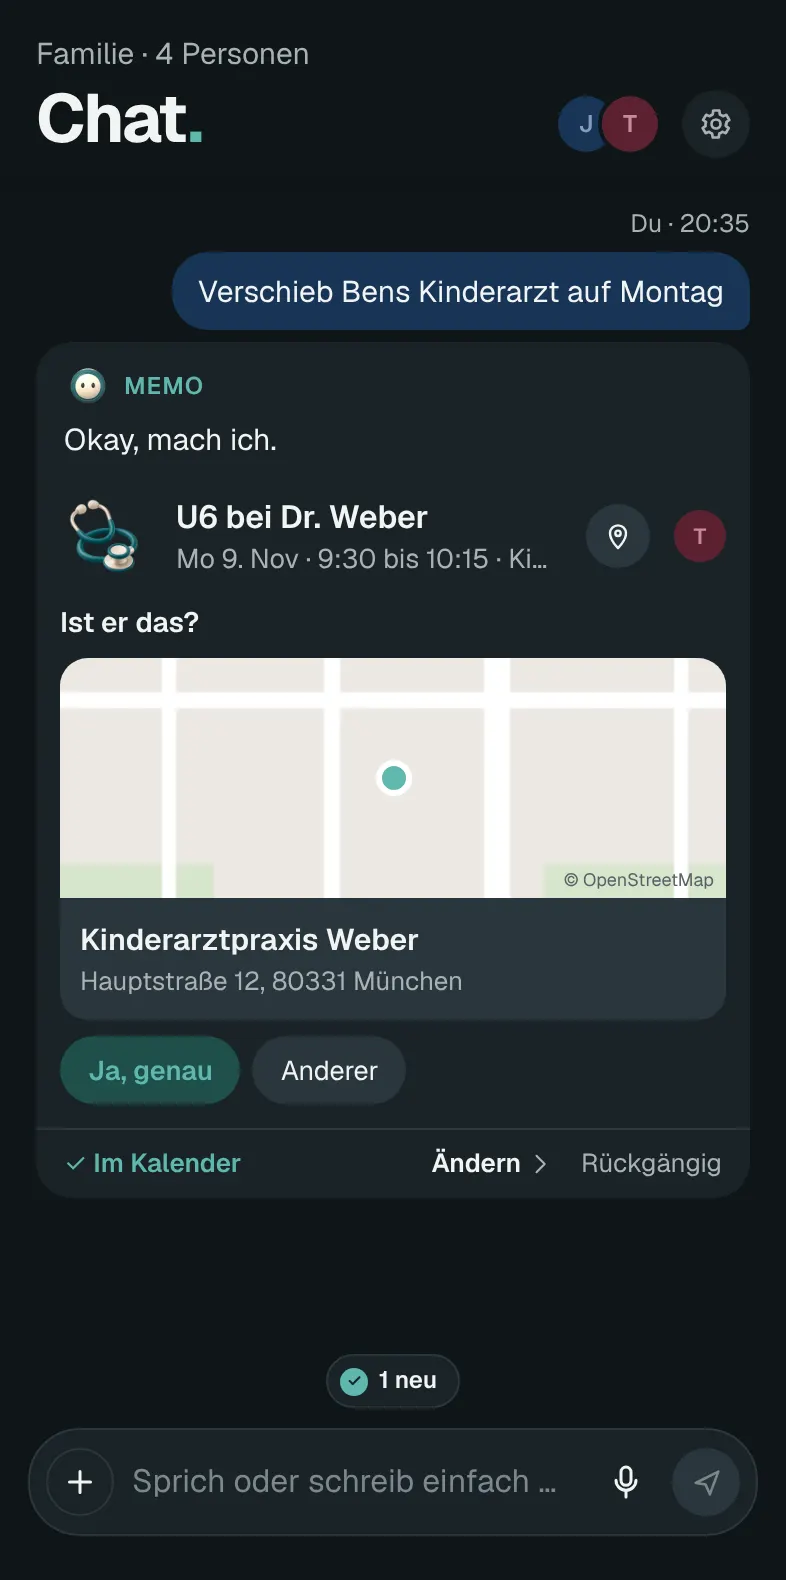
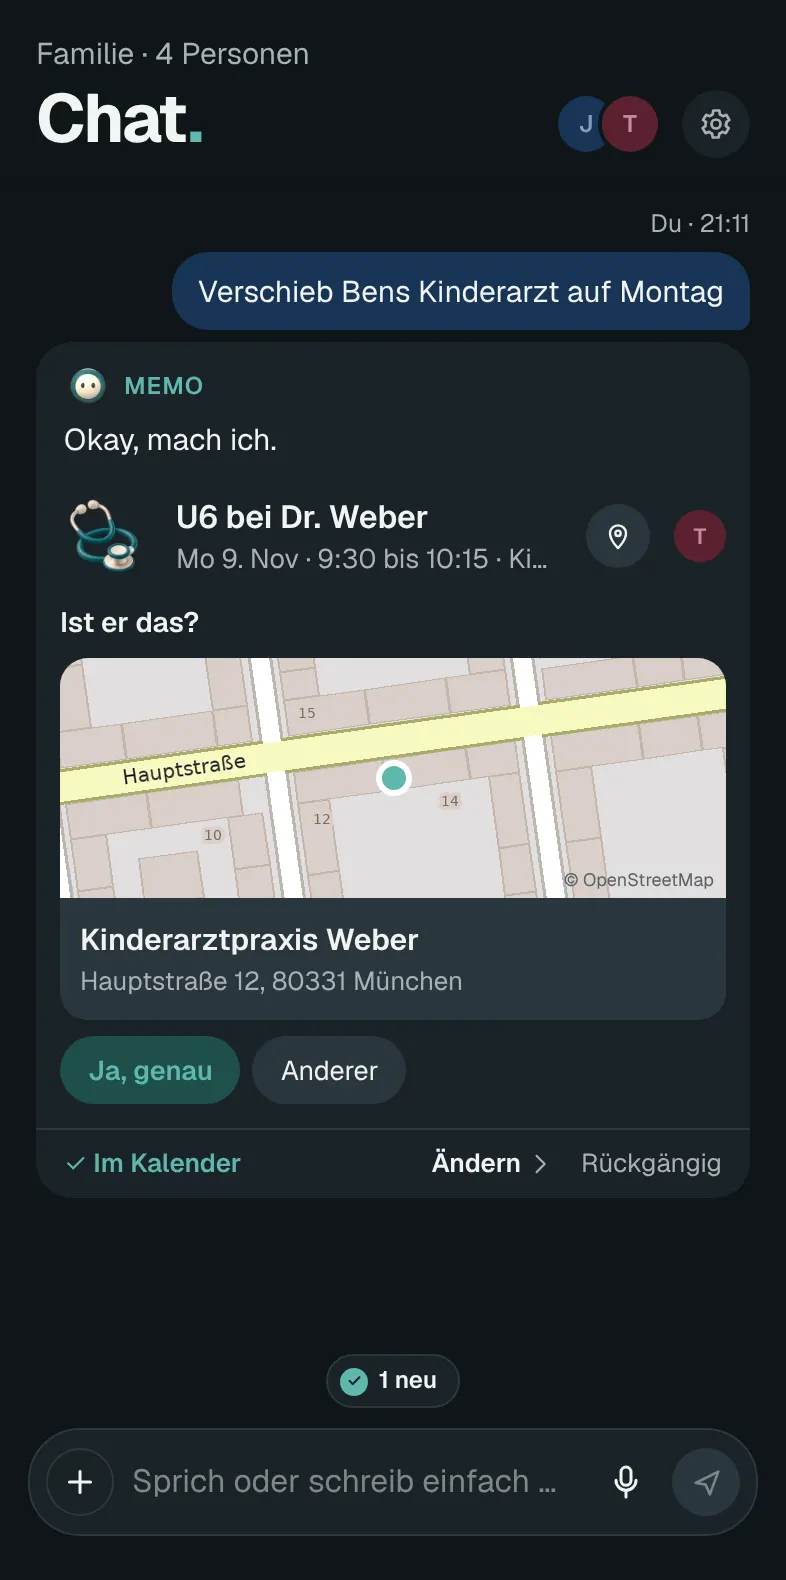
Landing: echte Straßenkarte im Zusammenhang-Screen, Watchlist als eigener Punkt (11), neue Screens
Claude-Session: https://claude.ai/code/session_017DTGJGUYwRXRGxkyGNMDvJ

Changed region(s): [[0.0611, 0.4032, 0.9466, 0.5892], [0.7939, 0.1241, 0.9466, 0.1551]]

diff --git a/landing/landing.src.html b/landing/landing.src.html
@@ -254,6 +254,7 @@ h1 { font-weight: 600; font-size: clamp(40px, 6.4vw, 78px); line-height: 1.02; l
       <div class="scr shot stacked" data-shot="briefing"><div class="status"><span>8:50</span><span>●●●</span></div><img alt=""></div>
       <div class="scr shot stacked" data-shot="personen"><div class="status"><span>8:50</span><span>●●●</span></div><img alt=""></div>
       <div class="scr shot stacked" data-shot="einkauf"><div class="status"><span>8:50</span><span>●●●</span></div><img alt=""></div>
+      <div class="scr shot stacked" data-shot="watchlist"><div class="status"><span>8:50</span><span>●●●</span></div><img alt=""></div>
       <div class="scr shot stacked" data-shot="kalender"><div class="status"><span>8:50</span><span>●●●</span></div><img alt=""></div>
     </div></div>
 
@@ -324,6 +325,7 @@ const T = {
       {"h": "Er denkt mit.", "p": "Der Wochenüberblick zeigt, wo sich etwas überschneidet und wo noch keiner zuständig ist. Und er erinnert an das, was für eure Kinder ansteht.", "f": [["Überschneidungen", "Bevor es eng wird."], ["U-Untersuchungen, Impfungen", "Zur richtigen Zeit, nach Alter."]]},
       {"h": "Holt euer Netz dazu.", "p": "Wenn zwei nicht reichen: Großeltern, Babysitter und Kinder gehören mit in den Kalender, jeder in seiner Farbe. So seht ihr, wer einspringen kann, und tragt Oma direkt beim Termin ein.", "f": [["Bald: Großeltern einladen", "Dann sehen sie den Kalender auf ihrem eigenen Handy."], ["Geburtstage inklusive", "Werden jährliche Termine mit Erinnerung."]]},
       {"h": "Listen gehören dazu.", "p": "„Wir brauchen Milch und Windeln“ landet auf der Einkaufsliste, bei allen gleichzeitig. Aus „Ich koche Bolognese“ werden die Zutaten.", "f": [["Termin oder Liste", "Er erkennt selbst, wohin es gehört."], ["Eigene Listen", "Zu erledigen, Filme, Urlaub, Kliniktasche."]]},
+      {"h": "Auch für den Filmabend.", "p": "Sagt „Erstelle eine Watchlist mit Dune, Oppenheimer und Barbie“, und die Liste steht. Wer einen Film entdeckt, sagt ihn einfach dazu.", "f": [["Eine Liste für alle", "Beide sehen, was noch offen ist."], ["Gesehen", "Ein Tipp, und der Film ist abgehakt."]]},
       {"h": "Eure Kalender kommen mit.", "p": "Verbindet Google, iCloud oder Outlook, damit nichts doppelt ist. Arbeit erscheint nur als Block, der Rest bleibt privat. Dazu Feiertage nach Region und ein Widget für heute.", "f": [["Kalender Abo", "Eure Termine auch in Apple oder Google Kalender."], ["Feiertage und Urlaub", "Nach Land und Bundesland."]]}
     ]
   },
@@ -349,6 +351,7 @@ const T = {
       {"h": "It thinks ahead.", "p": "The weekly overview shows where things clash and where nobody is in charge yet. And it reminds you of what is due for your kids.", "f": [["Clashes", "Before it gets tight."], ["Checkups, vaccinations", "At the right time, by age."]]},
       {"h": "Bring in your support network.", "p": "When two of you aren't enough: grandparents, babysitters and kids belong in the calendar too, each in their own color. See who can step in, and add Grandma right on the event.", "f": [["Coming soon: invite grandparents", "Then they see the calendar on their own phone."], ["Birthdays included", "They become yearly events with a reminder."]]},
       {"h": "Lists come with it.", "p": "“We need milk and nappies” lands on the shopping list, for everyone at once. “I'm making bolognese” turns into the ingredients.", "f": [["Event or list", "It works out where it belongs."], ["Your own lists", "To-dos, films, holidays, hospital bag."]]},
+      {"h": "Film night, sorted.", "p": "Say “Make a watchlist with Dune, Oppenheimer and Barbie”, and the list is there. Spot a film? Just say it and it's added.", "f": [["One list for everyone", "You both see what's still to watch."], ["Watched", "One tap and it's ticked off."]]},
       {"h": "Your calendars come along.", "p": "Connect Google, iCloud or Outlook so nothing is doubled. Work shows up only as a block, the rest stays private. Plus holidays by region and a widget for today.", "f": [["Calendar subscription", "Your events in Apple or Google Calendar too."], ["Holidays and time off", "By country and region."]]}
     ]
   }

diff --git a/landing/sync-screens.js b/landing/sync-screens.js
@@ -89,6 +89,8 @@ async function english(p) {
   }, EN_DATA);
 }
 const TILE = fs.readFileSync(path.join(__dirname, 'shots-tile.png'));
+// Echte wirkende Karte rund um den Pin (make-map-tiles.py), Mitte = Kachel 16/34874/22743.
+const mapTile = (u) => { const m = /\/16\/(\d+)\/(\d+)\.png/.exec(u); if (!m) return TILE; const f = path.join(__dirname, 'maptiles', `${m[1] - 34874}_${m[2] - 22743}.png`); return fs.existsSync(f) ? fs.readFileSync(f) : TILE; };
 const feat = (name, street, housenumber, postcode, city, lon, lat) => ({ type: 'Feature', geometry: { type: 'Point', coordinates: [lon, lat] }, properties: { name, street, housenumber, postcode, city } });
 async function routes(p) {
   await p.route(/photon\.komoot\.io/, (r) => {
@@ -96,7 +98,7 @@ async function routes(p) {
     const f = /weber/i.test(q) ? feat(/pediatrics/i.test(q) ? 'Weber Pediatrics' : 'Kinderarztpraxis Weber', 'Hauptstraße', '12', '80331', 'München', 11.5702, 48.1371) : salon ? feat('Salon Miller', 'Lindenstraße', '8', '80331', 'München', 11.5702, 48.1371) : feat('Zahnarztpraxis Dr. Müller', 'Lindenstraße', '8', '80331', 'München', 11.5702, 48.1371);
     r.fulfill({ status: 200, contentType: 'application/json', body: JSON.stringify({ type: 'FeatureCollection', features: [f] }) });
   });
-  await p.route(/tile\.openstreetmap\.org/, (r) => r.fulfill({ status: 200, contentType: 'image/png', body: TILE }));
+  await p.route(/tile\.openstreetmap\.org/, (r) => r.fulfill({ status: 200, contentType: 'image/png', body: mapTile(r.request().url()) }));
 }
 
 // Jeder Screen: Name in landing/shots und der Weg dorthin, ausgehend vom Chat der Beispielfamilie.
@@ -138,7 +140,7 @@ const SCREENS = [
   ['personen', async ({ p }) => { await p.evaluate(() => { history.pushState({}, '', '/personen'); dispatchEvent(new PopStateEvent('popstate')); }); await p.waitForTimeout(1800); }],
   ['bearbeiten', async ({ p, tab, t }) => { await tab(t.cal); await p.getByText(t.u6).first().click(); }],
   ['listen', async ({ tab, t }) => { await tab(t.lists); }],
-  ['watchlist', async ({ p, can, say, tab, t }) => { await can(); await say(t.watch); await tab(t.lists); await p.getByText('Watchlist', { exact: true }).last().click({ timeout: 3000 }).catch(() => {}); }],
+  ['watchlist', async ({ p, can, say, t }) => { await can(); await say(t.watch); await p.evaluate(() => { history.pushState({}, '', '/listen'); dispatchEvent(new PopStateEvent('popstate')); }); await p.waitForTimeout(1800); await p.getByText('Watchlist', { exact: true }).last().click({ timeout: 3000 }).catch(() => {}); }],
   ['wissen', async ({ can, say, setting, t, l }) => { await can(); for (const [fact] of FACTS[l]) await say((l === 'de' ? 'Merk dir, ' : 'Remember, ') + fact); await setting(t.wissen); }],
   ['wieder', async ({ say, t }) => { await say(t.u7); }],
   ['karte', async ({ p, say, t }) => { await say(t.karte); await p.getByPlaceholder(/Dr\.|Salon|e\.g\./).first().fill(t.who); await p.getByText(t.search, { exact: true }).click(); }],

diff --git a/landing/make-map-tiles.py b/landing/make-map-tiles.py
@@ -1,0 +1,89 @@
+"""Baut 3x3 Kartenkacheln im OpenStreetMap-Stil fuer die Screenshots (OSM ist in der Cloud gesperrt).
+Ausgabe: landing/maptiles/<dx>_<dy>.png (512 px, 2x). Mitte = Kachel mit dem Pin (München, Zoom 16)."""
+import math, random, os
+from PIL import Image, ImageDraw, ImageFont
+S = 2; W = 768
+random.seed(7)
+LAND, RES, BLD, BLDL = '#f2efe9', '#e0dfdf', '#d9d0c9', '#c4b6ab'
+PARK, PARKL, WATER = '#c8facc', '#aed1a0', '#aad3df'
+PRI, PRIL, SEC, SECL, RD, RDL = '#fcd6a4', '#c48c4e', '#f7fabf', '#a8ab6a', '#ffffff', '#bdb6ad'
+im = Image.new('RGB', (W * S, W * S), LAND); d = ImageDraw.Draw(im)
+P = lambda pts: [(x * S, y * S) for x, y in pts]
+F = lambda sz, b=False: ImageFont.truetype('/usr/share/fonts/truetype/dejavu/DejaVuSans%s.ttf' % ('-Bold' if b else ''), sz * S)
+# lokales Straßenraster, leicht gedreht
+A = math.radians(-8); ca, sa = math.cos(A), math.sin(A)
+def rot(u, v):  # Rasterkoordinate -> Bild
+    return (330 + u * ca - v * sa, 470 + u * sa + v * ca)
+d.polygon(P([rot(-600, -600), rot(600, -600), rot(600, 600), rot(-600, 600)]), fill=RES)
+cols = [-560, -430, -300, -175, -60, 70, 190, 320, 450, 580]
+rows = [-560, -420, -290, -160, 0, 150, 280, 410, 560]
+# Park oben rechts, Fluss unten links
+park = [rot(190, -420), rot(450, -420), rot(450, -160), rot(190, -160)]
+# Blöcke mit Blockrandbebauung
+for i in range(len(cols) - 1):
+    for j in range(len(rows) - 1):
+        u0, u1, v0, v1 = cols[i] + 9, cols[i + 1] - 9, rows[j] + 9, rows[j + 1] - 9
+        if u1 - u0 < 30 or v1 - v0 < 30: continue
+        if i in (6, 7) and j in (1, 2): continue
+        depth = random.choice([16, 18, 20, 22])
+        # Gebäude rund um den Block, in Segmente geteilt
+        segs = []
+        u = u0
+        while u < u1 - 10:
+            w = random.randint(22, 46); segs.append((u, v0, min(u + w, u1), v0 + depth)); segs.append((u, v1 - depth, min(u + w, u1), v1)); u += w
+        v = v0 + depth
+        while v < v1 - depth - 6:
+            h = random.randint(20, 40); segs.append((u0, v, u0 + depth, min(v + h, v1 - depth))); segs.append((u1 - depth, v, u1, min(v + h, v1 - depth))); v += h
+        for (a, b, c, e) in segs:
+            d.polygon(P([rot(a, b), rot(c, b), rot(c, e), rot(a, e)]), fill=BLD, outline=BLDL, width=S)
+        if random.random() < .35 and (u1 - u0) > 80 and (v1 - v0) > 80:  # Hinterhofbau
+            a, b = u0 + depth + 14, v0 + depth + 14
+            d.polygon(P([rot(a, b), rot(a + 30, b), rot(a + 30, b + 24), rot(a, b + 24)]), fill=BLD, outline=BLDL, width=S)
+d.polygon(P(park), fill=PARK, outline=PARKL, width=S)
+for k in range(14):  # Bäume
+    cx, cy = rot(random.uniform(205, 435), random.uniform(-405, -175)); r = random.uniform(5, 9)
+    d.ellipse([(cx - r) * S, (cy - r) * S, (cx + r) * S, (cy + r) * S], fill='#b5e3b5')
+# Fluss
+river = [(-20, 700), (60, 640), (120, 610), (150, 560), (140, 500), (100, 440), (40, 400), (-20, 380)]
+d.line(P(river), fill=WATER, width=46 * S, joint='curve')
+def road(pts, w, fill, line):
+    d.line(P(pts), fill=line, width=(w + 3) * S, joint='curve')
+    for p in pts: r = (w + 3) / 2 * S; d.ellipse([p[0] * S - r, p[1] * S - r, p[0] * S + r, p[1] * S + r], fill=line)
+    return pts
+def fillroad(pts, w, fill):
+    d.line(P(pts), fill=fill, width=w * S, joint='curve')
+    for p in pts: r = w / 2 * S; d.ellipse([p[0] * S - r, p[1] * S - r, p[0] * S + r, p[1] * S + r], fill=fill)
+small = [[rot(u, -700), rot(u, 700)] for u in cols] + [[rot(-700, v), rot(700, v)] for v in rows if v != 0]
+main = [rot(-700, 0), rot(700, 0)]               # Hauptstraße (sekundär), Pin knapp darüber
+diag = [rot(-700, 520), rot(-100, 250), rot(250, 120), rot(700, -60)]  # Hauptverkehrsstraße
+for s in small: road(s, 9, RD, RDL)
+road(main, 15, SEC, SECL); road(diag, 18, PRI, PRIL)
+for s in small: fillroad(s, 9, RD)
+fillroad(main, 15, SEC); fillroad(diag, 18, PRI)
+# Bahnlinie
+d.line(P([(560, 768), (620, 560), (700, 380), (768, 300)]), fill='#999999', width=4 * S)
+def label(text, at, ang, sz=10, col='#333333', bold=False, halo=LAND):
+    f = F(sz, bold); bb = f.getbbox(text); tw, th = bb[2] + 8 * S, bb[3] + 8 * S
+    t = Image.new('RGBA', (tw, th), (0, 0, 0, 0)); td = ImageDraw.Draw(t)
+    td.text((4 * S, 4 * S), text, font=f, fill=col, stroke_width=2 * S, stroke_fill=halo)
+    t = t.rotate(ang, expand=True, resample=Image.BICUBIC)
+    im.paste(t, (int(at[0] * S - t.width / 2), int(at[1] * S - t.height / 2)), t)
+deg = -math.degrees(A)
+label('Hauptstraße', rot(-105, 0), deg, 10, '#333333', halo=SEC)
+label('Hauptstraße', rot(420, 0), deg, 10, '#333333', halo=SEC)
+label('Ludwigstraße', rot(-120, 255), 26, 10, halo=PRI)
+for u, n in [(-175, 'Lindenstraße'), (190, 'Gartenstraße'), (-430, 'Schulstraße')]:
+    label(n, rot(u, 250), deg - 90, 9, '#555555', halo=RD)
+for v, n in [(150, 'Bergstraße'), (-160, 'Kirchweg'), (-290, 'Rosenstraße')]:
+    label(n, rot(-360, v), deg, 9, '#555555', halo=RD)
+label('Stadtpark', rot(320, -300), 0, 11, '#2b7a2b', halo=PARK)
+label('Isar', (70, 560), -60, 10, '#3c6f8a', halo=WATER)
+# Hausnummern um den Pin
+for (u, v, n) in [(-40, 34, "12"), (-95, 34, "10"), (25, 34, "14"), (-40, -20, "15")]:
+    label(n, rot(u, v), 0, 7, '#7a6a5e', halo=BLD)
+out = os.path.join(os.path.dirname(__file__), 'maptiles'); os.makedirs(out, exist_ok=True)
+for dx in (-1, 0, 1):
+    for dy in (-1, 0, 1):
+        x0, y0 = (dx + 1) * 256 * S, (dy + 1) * 256 * S
+        im.crop((x0, y0, x0 + 256 * S, y0 + 256 * S)).save(os.path.join(out, '%d_%d.png' % (dx, dy)), optimize=True)
+im.crop((165 * S, 410 * S, 495 * S, 530 * S)).save(os.path.join(out, '_preview.png'))
